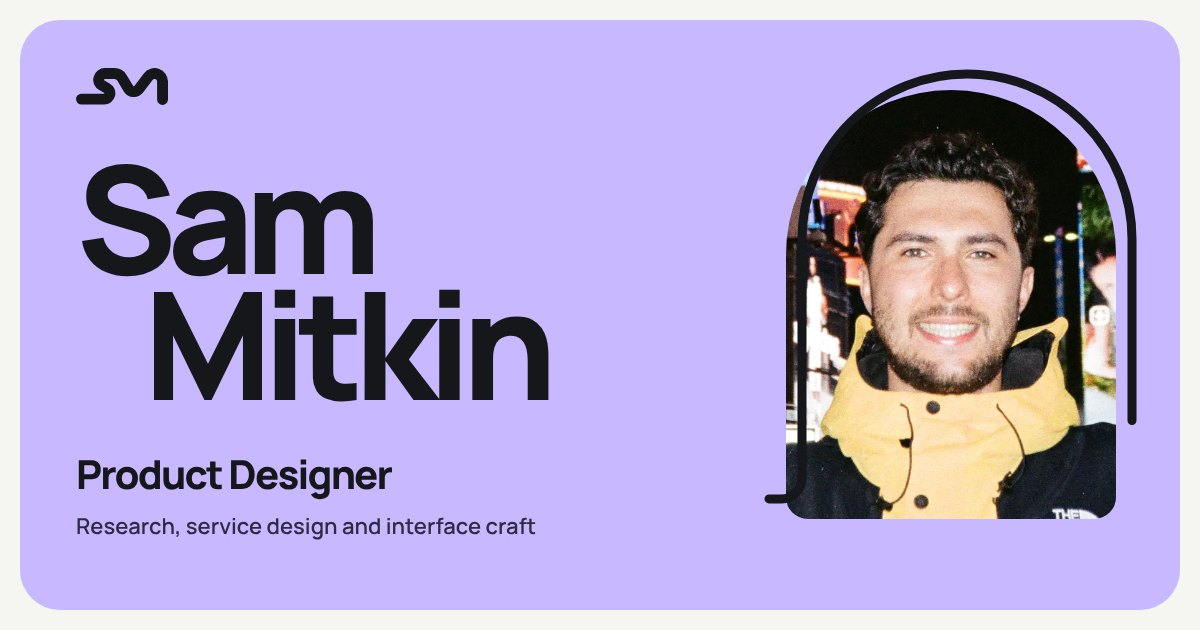
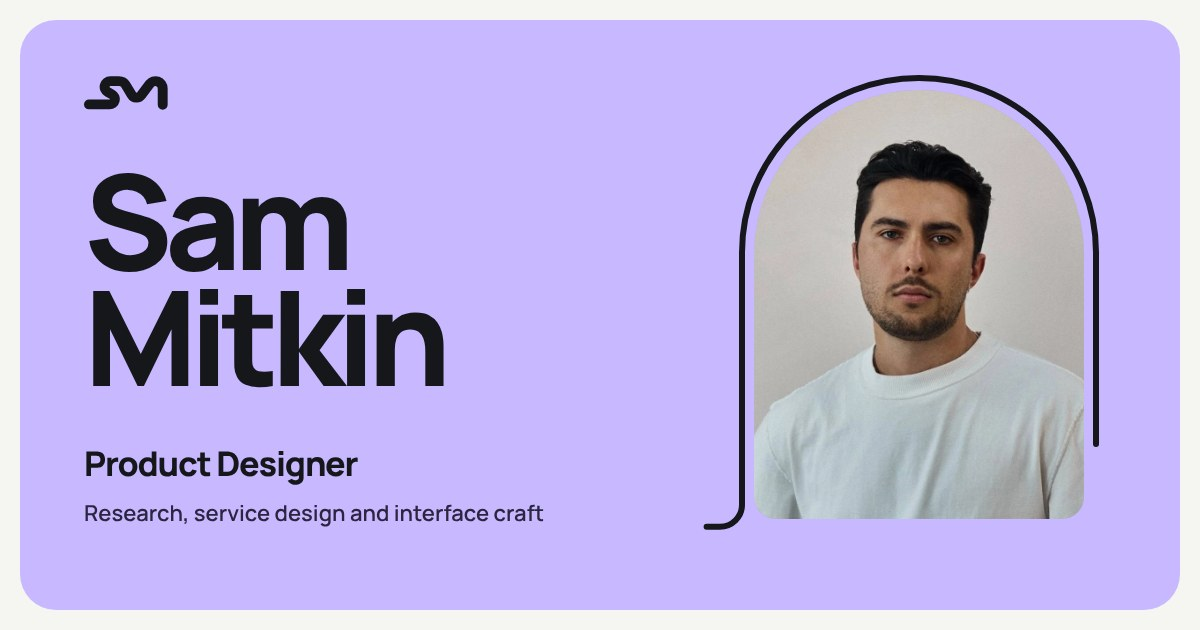
Final release: copy precision, Tasky mid-fi screens, current link previews
- Hero: 11+ years (matches About)
- Tasky: was tested; not part of the final client handoff; codes = neither side can confirm alone; mid-fi block from the Mid-Fidelity Figma file
- MoveEase: 'including' for the test flows; Next case 'task attempts'
- New og-image (current portrait and arch) and Frant OG with 'task attempts'

Claude-Session: https://claude.ai/code/session_01XtMnJRJs91ficiZyW64tjZ

diff --git a/src/pages/Tasky.tsx b/src/pages/Tasky.tsx
@@ -282,6 +282,22 @@ export function Tasky() {
                 { img: img("tasky/sent", "Interest sent with a Pending status and three numbered steps for what happens next"), tag: "Interest sent", label: "Every status has a word, a color and an icon, plus what happens next." },
               ]}
             />
+            <SubHeading>Mid-fi first, in grayscale.</SubHeading>
+            <Prose className="mt-4">
+              <p>
+                I built the worker flow in grayscale mid-fi before moving to hi-fi. The order of facts on each post stayed. Two
+                things changed: “I’m interested” became “I am interested,” once we dropped contractions with the client. And
+                the finish step changed twice: a personal PIN in mid-fi, a completion code in hi-fi, then, after testing, a
+                code the poster holds.
+              </p>
+            </Prose>
+            <PhoneRow
+              items={[
+                { img: img("tasky/mid-find", "Mid-fi Find work list with three grayscale work cards showing pay, day and town"), tag: "Mid-fi, Find work", label: "Pay, day and town on every card from the start." },
+                { img: img("tasky/mid-details", "Mid-fi Work details with Listen to the details, pay, when, how long and where, and an I'm interested button"), tag: "Mid-fi, Work details", label: "The same order of facts carried into hi-fi." },
+                { img: img("tasky/mid-finish", "Mid-fi Finish work asking whether the worker got EC$40 in cash and for the worker's own 4-digit PIN"), tag: "Mid-fi, Finish work", label: "The worker’s own PIN, later replaced." },
+              ]}
+            />
             <More label="More on the work day screens">
               <PhoneRow
                 items={[
@@ -320,8 +336,8 @@ export function Tasky() {
           <Pad>
             <Prose className="mt-8">
               <p>
-                The client wanted codes for security: they stop one side from confirming for the other and lowering the
-                pay. So instead of removing them, we made them simple.
+                The client wanted codes for security: neither side can confirm the work alone. So instead of removing them,
+                we made them simple.
               </p>
             </Prose>
             <Points
@@ -332,7 +348,7 @@ export function Tasky() {
               ]}
             />
             <Note label="Open question, to validate" kind="hypothesis">
-              We couldn’t recruit a worker for testing, so this rule is tested with posters and the client, not with
+              We couldn’t recruit a worker for testing, so this rule was tested with posters and the client, not with
               workers. It’s the first thing I’d test next.
             </Note>
             <More label="More on what testing changed">
@@ -396,7 +412,7 @@ export function Tasky() {
               <p>
                 Alongside the team design, I explored a bolder direction: work photos, category colors and a stronger
                 header. The team chose the simpler version for lower data use and readability, and the client never
-                reviewed mine. So it stays an exploration, not the shipped design.
+                reviewed mine. So it stays an exploration and was not part of the final client handoff.
               </p>
               <p>
                 Looking back, it also slipped into a contraction, “I’m interested,” which we had ruled out with the client.

diff --git a/src/pages/MoveEase.tsx b/src/pages/MoveEase.tsx
@@ -281,7 +281,7 @@ export function MoveEase() {
           <Pad>
             <Prose className="mt-6">
               <p>
-                Five participants tested the core flows: finding the next task, creating a task, assigning it to a partner,
+                Five participants tested the core flows, including finding the next task, creating a task, assigning it to a partner
                 and checking deadlines.
               </p>
             </Prose>
@@ -367,7 +367,7 @@ export function MoveEase() {
 
       <Lesson>Icon-only buttons can fail under stress. Interfaces should explain themselves without assuming calm attention.</Lesson>
 
-      <NextCase to="/frant" name="Frant" color="bg-frant" line="A rank without a reason feels arbitrary. 42 of 45 tasks done without a hint in round two." />
+      <NextCase to="/frant" name="Frant" color="bg-frant" line="A rank without a reason feels arbitrary. 42 of 45 task attempts without a hint in round two." />
     </>
   );
 }

diff --git a/src/components/home/Hero.tsx b/src/components/home/Hero.tsx
@@ -87,7 +87,7 @@ export function Hero() {
           </div>
           <div className="lg:col-span-5">
             <p className="mt-[18px] max-w-[34em] text-[17px] font-medium leading-[1.55] lg:mt-0 lg:text-[19px]">
-              Before design, I spent 10+ years running a client-facing service business. Now I bring that closeness to
+              Before design, I spent 11+ years running a client-facing service business. Now I bring that closeness to
               customers into research, service design and product decisions.
             </p>
             <div className="mt-6 flex flex-col gap-2.5 text-[16px] font-bold md:flex-row md:flex-wrap md:items-center md:gap-3 lg:mt-7">

diff --git a/index.html b/index.html
@@ -24,7 +24,7 @@
       content="Service design, customer experience, and research-driven product decisions."
     />
     <meta property="og:url" content="https://www.sammitkin.com/" />
-    <meta property="og:image" content="https://www.sammitkin.com/og-image.jpg?v=2" />
+    <meta property="og:image" content="https://www.sammitkin.com/og-image.jpg?v=3" />
     <meta property="og:image:width" content="1200" />
     <meta property="og:image:height" content="630" />
     <meta property="og:image:alt" content="Sam Mitkin, Product Designer" />

diff --git a/src/data/imageSizes.ts b/src/data/imageSizes.ts
@@ -220,6 +220,18 @@ export const imageSizes: Record<string, [number, number]> = {
     360,
     855
   ],
+  "tasky/mid-details": [
+    360,
+    800
+  ],
+  "tasky/mid-finish": [
+    360,
+    800
+  ],
+  "tasky/mid-find": [
+    360,
+    800
+  ],
   "tasky/paid": [
     360,
     800
